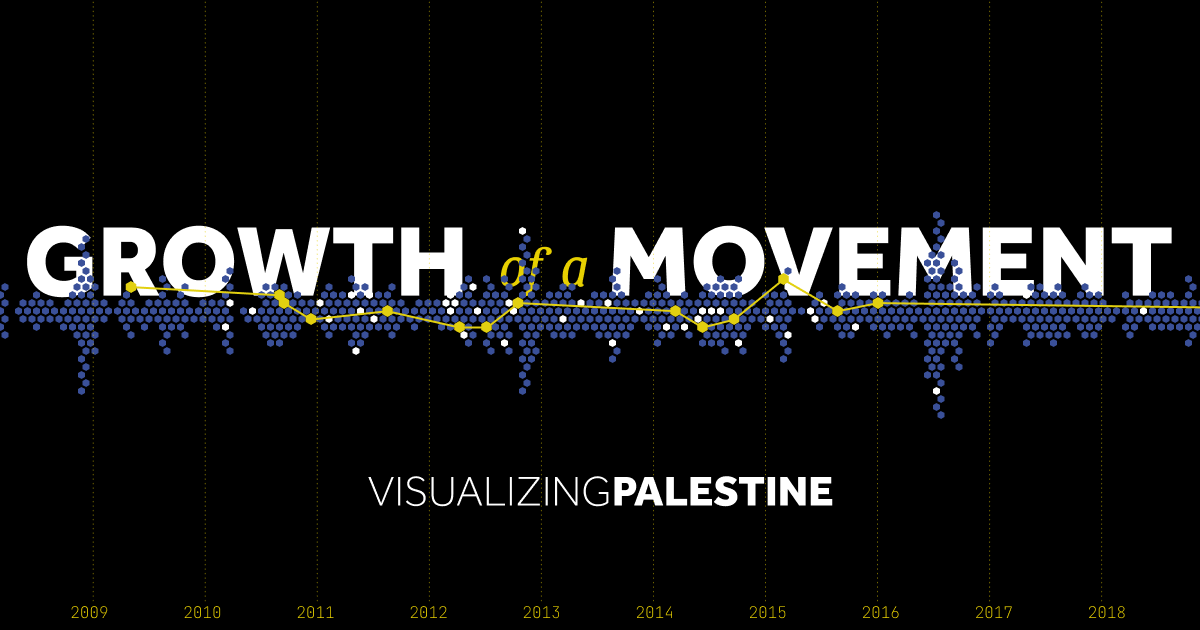
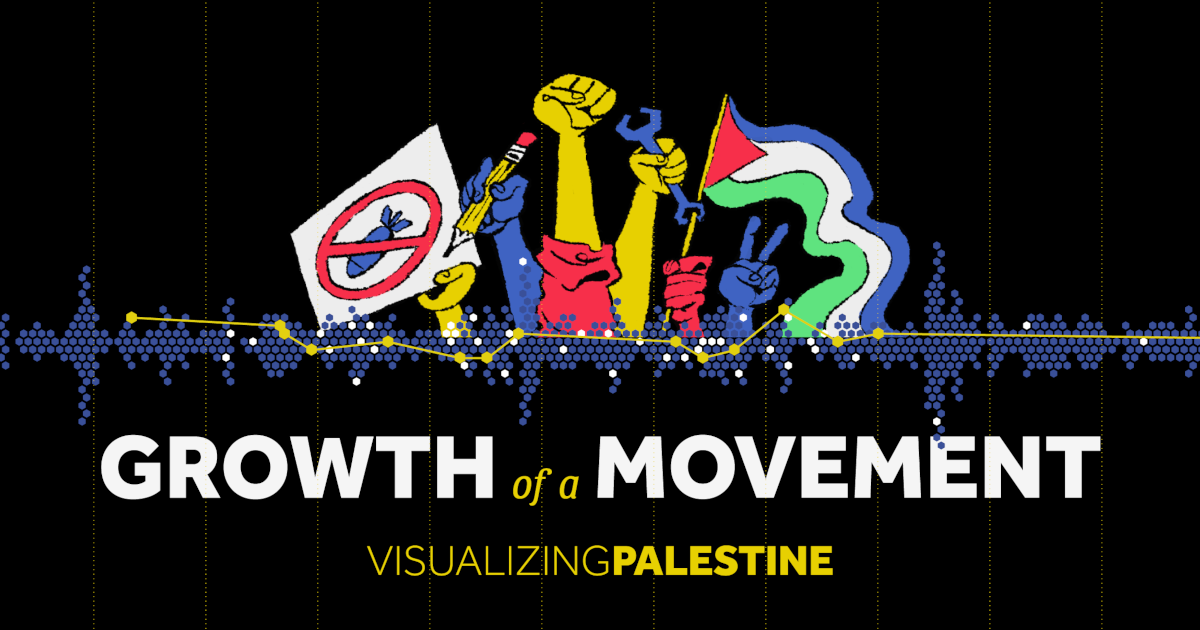
Add opengraph images

diff --git a/src/stories/student-movement.md b/src/stories/student-movement.md
@@ -5,7 +5,7 @@ title: Student Movement
 title_short: Students
 illustration: /illustrations/student-movement.png
 description: Student unions and student governments around the world have organized BDS campaigns in solidarity with Palestinians, building the legacy of student movements in igniting progressive change.
-opengraphImage: 'opengraph-student.png'
+opengraphImage: 'opengraph-student-movement.png'
 intro: |
   Student unions and student governments around the world have organized BDS campaigns in solidarity with Palestinians, building the legacy of student movements in igniting progressive change.
 events:

diff --git a/src/stories/veolia.md b/src/stories/veolia.md
@@ -5,6 +5,7 @@ title: Veolia
 title_short: Veolia
 illustration: /illustrations/veolia.png
 description: The BDS movement targeted G4S for their role in providing services to Israeli prisons, police, the military, and illegal settlements.
+opengraphImage: 'opengraph-veolia.png'
 intro: |
   Veolia, a French multinational transportation company involved in developing infrastructure to expand illegal Israeli settlements, completely exited the Israeli market after almost a decade of BDS campaigns cost the company an estimated $21 billion in contracts.
 events:

diff --git a/src/stories/bds.md b/src/stories/bds.md
@@ -5,6 +5,7 @@ title: BDS Movement
 title_short: BDS
 illustration: /illustrations/bds.png
 description: The BDS movement strategically builds people power to end corporate, state, and institutional complicity in Israel’s system of oppression.
+opengraphImage: 'opengraph-bds.png'
 intro: |
   The BDS movement strategically **builds people power** to end corporate, state, and institutional complicity in Israel’s system of oppression.
 
